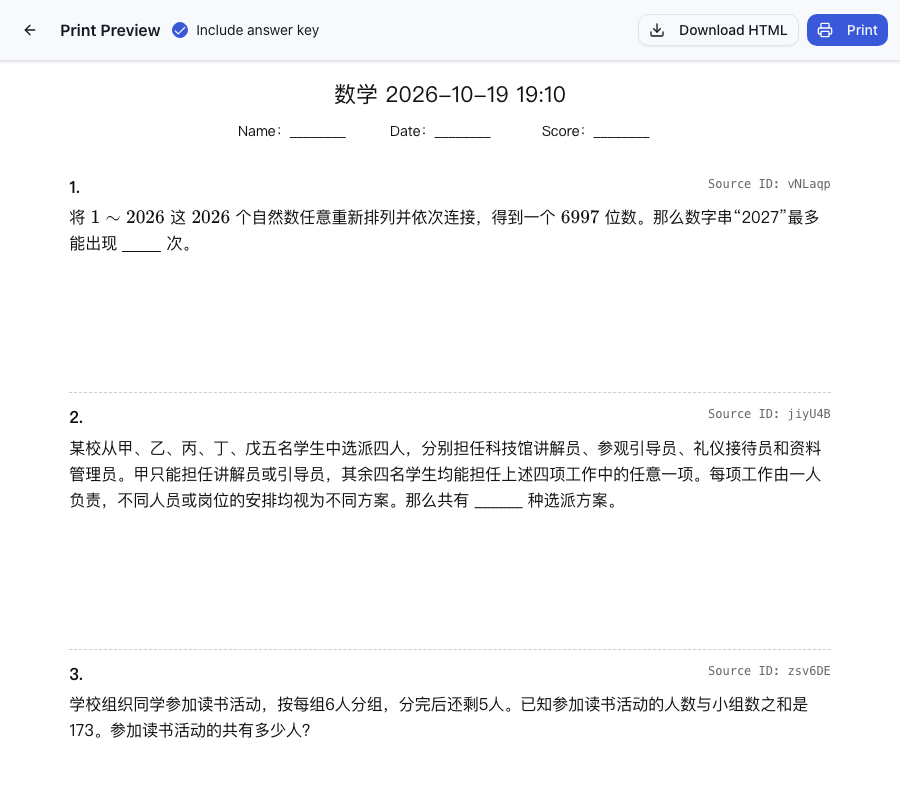
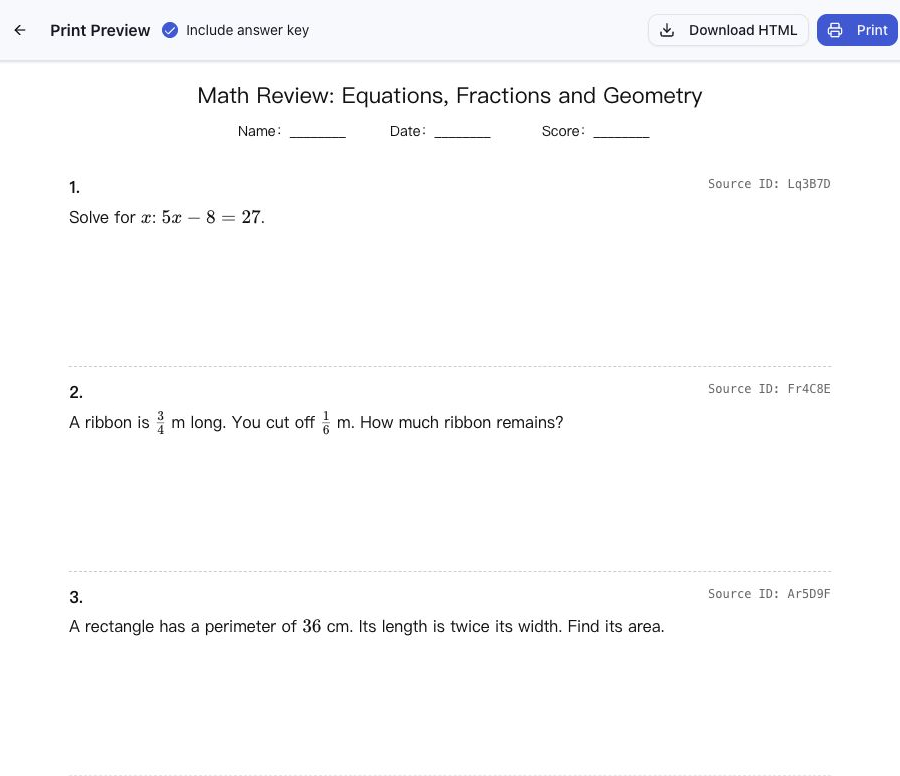
docs: 使用英文题目重拍英文演示截图

diff --git a/README.en.md b/README.en.md
@@ -24,11 +24,11 @@ An AI-powered notebook for the questions you got wrong. Snap a photo or type a q
 
 ## 🖼 Screenshots
 
-The screenshots below were taken from the running app (2026-10-20) and show real questions, explanations and exams. Usernames are masked. Click an image to view it full size.
+The screenshots below were captured from the running app on 2026-10-22 using English demo questions, answers, explanations, knowledge points and exams. The Student account and practice records are sample data. Click an image to view it full size.
 
 **Notebook**: see each question's summary, difficulty stars and knowledge points on one page. Filter by grade, term, mastery and A/B paper, open a question by its ID, compare similarity or print in bulk.
 
-![Question cards with difficulty stars, knowledge-point tags and filters](doc/screenshots/en/notebook.png)
+![English math questions with difficulty stars, English knowledge-point tags and filters](doc/screenshots/en/notebook.png)
 
 <details>
 <summary><strong>Input and preferences: photo upload, text input, review before import and configurable duplicate detection</strong></summary>
@@ -48,16 +48,16 @@ General settings control review before import, SVG animated explanations, GeoGeb
 
 Each question shows its text, knowledge points, grade, term and paper level. You can check the original photo and start practicing similar questions from here.
 
-![Question details with formulas, difficulty stars, knowledge points, grade and term](doc/screenshots/en/question-detail.png)
+![An English linear-equation question with formulas, difficulty stars, knowledge points, grade and term](doc/screenshots/en/question-detail.png)
 
 </details>
 
 <details>
 <summary><strong>SVG animated explanations: step-by-step animations of the solution</strong></summary>
 
-An animated explanation of a hexagon coloring problem, showing region relationships and the recursive counting. The player supports pause, seeking, replay and full screen.
+An English animated explanation of a hexagon coloring problem, showing region relationships and the recursive counting. The player supports pause, seeking, replay and full screen.
 
-![SVG animated explanation of a hexagon coloring problem with counting table and player controls](doc/screenshots/en/svg-animation.png)
+![English SVG explanation of a hexagon coloring problem with an English counting table and player controls](doc/screenshots/en/svg-animation.png)
 
 </details>
 
@@ -66,7 +66,7 @@ An animated explanation of a hexagon coloring problem, showing region relationsh
 
 Results from practice questions and exams are collected under the original question; expand a record to see the variant question and its answer. AI estimates your mastery from the actual answer history to help plan the next review.
 
-![Exam variant questions, wrong-then-right answer history and AI mastery estimate](doc/screenshots/en/mastery-history.png)
+![An English exam variant, sample wrong-then-right answer history and a mastery estimate](doc/screenshots/en/mastery-history.png)
 
 </details>
 
@@ -75,20 +75,20 @@ Results from practice questions and exams are collected under the original quest
 
 Generated exams keep each source question's ID and show every attempt, so you can trace the effect back to the original question.
 
-![A generated exam with source IDs and multiple attempt results](doc/screenshots/en/exam.png)
+![An English demo exam with source IDs and sample results from multiple attempts](doc/screenshots/en/exam.png)
 
 The print preview can include an answer page; download it as HTML, print it, or save it as PDF from the browser.
 
-![Exam print preview with source IDs, answer page toggle and export options](doc/screenshots/en/exam-print.png)
+![An English exam print preview with source IDs, answer page toggle and export options](doc/screenshots/en/exam-print.png)
 
 </details>
 
 <details>
 <summary><strong>Knowledge library: browse by subject, grade and chapter</strong></summary>
 
-The standard tag library organizes knowledge points by curriculum level, and also offers custom tags and usage statistics.
+The tag library organizes knowledge points by curriculum level, and also offers custom tags and usage statistics. This demo uses English sample tags for algebra and geometry.
 
-![Math knowledge points expanded by grade 4, geometry, angles and quadrilaterals](doc/screenshots/en/knowledge-tags.png)
+![English grade 4 tags expanded to show linear equations, adding fractions, angles, and area and perimeter](doc/screenshots/en/knowledge-tags.png)
 
 </details>
 

diff --git a/doc/screenshots/README.md b/doc/screenshots/README.md
@@ -1,6 +1,11 @@
 # README 使用截图
 
-这些图片于 2026-10-22 采集：使用已有题目、动画讲解、试卷与练习记录的数据副本，在本地运行当前版本，以浅色模式截取。根目录为中文界面（供 `README.md` 使用），`en/` 为同名的英文界面截图（供 `README.en.md` 使用）；题目、知识点等数据保持原文。图片仅做内容裁剪和无损 PNG 保存，用户名替换为「学生」/「Student」，未替换题目或统计数据。
+这些图片于 2026-10-22 在本地运行当前版本，以浅色模式采集。图片仅做内容裁剪和无损 PNG 保存。
+
+- 根目录供 `README.md` 使用：基于已有题目、动画讲解、试卷与练习记录的数据副本，用户名替换为「学生」，题目和统计数据保持原文。
+- `en/` 供 `README.en.md` 使用：在独立演示数据库中准备英文题干、答案、解析、知识点、动画文字、试卷标题和变式题，再从实际运行的英文界面重新截图。`Student` 为演示用户，12 道题、42 条作答记录和掌握估计均为演示数据，不代表真实学生的学习成效。
+
+英文内容素材保存在 [`en/demo-questions.json`](en/demo-questions.json)，六边形染色讲解使用 [`en/hexagon-coloring.svg`](en/hexagon-coloring.svg)。这些是截图内容素材，不是账户备份。英文标签仅用于本组演示，应用自带的知识点库仍遵循 README 中说明的中国 K-12 课程体系。
 
 应用图标复用仓库中的 [`public/icons/icon.png`](../../public/icons/icon.png)。截图不包含实例访问地址或登录凭据。
 
@@ -10,7 +15,7 @@
 | `upload.png` | 拍照上传、文字录入与剪贴板粘贴 |
 | `preferences.png` | 导入确认、讲解偏好与判重阈值 |
 | `question-detail.png` | 题干、星级、知识点与试题信息 |
-| `svg-animation.png` | 六边形染色题的已有动画讲解 |
+| `svg-animation.png` | 六边形染色题的动画讲解，英文版包含英文图示文字和计数表 |
 | `mastery-history.png` | 变式题、作答历史与掌握概率 |
 | `exam.png` | 已生成试卷、来源 ID 与作答结果 |
 | `exam-print.png` | 试卷打印预览与导出入口 |
@@ -18,4 +23,6 @@
 | `error-stats.png` | 错题数量、掌握率、科目分布与趋势 |
 | `practice-stats.png` | 练习次数、正确率与趋势 |
 
-更新图片时，中英文两套同时更新并保留对应文件名，使用浅色模式（不要使用暗色模式截图），核对截图与 README 说明一致，并在提交前检查用户名、邮箱、凭据和内部地址是否入镜。
+更新图片时保留对应文件名，使用浅色模式，等待页面、图表及过渡动画完成后截图，裁切时保留完整的展示区域。英文截图须同时使用英文界面和英文内容；逐项检查题干、答案、解析、知识点、动画内嵌文字、试卷标题及变式题，不能只切换界面语言。核对截图与 README 说明一致，并在提交前检查用户名、邮箱、凭据和内部地址是否入镜。
+
+涉及两种语言的功能变化应同步更新中英文两套截图；仅修正某种语言的内容时更新对应素材即可。官网 `../wrong-notebook-github-pages/assets/images/en/` 的六张 WebP 及英文分享图应与这里的英文 PNG 同步更新。
